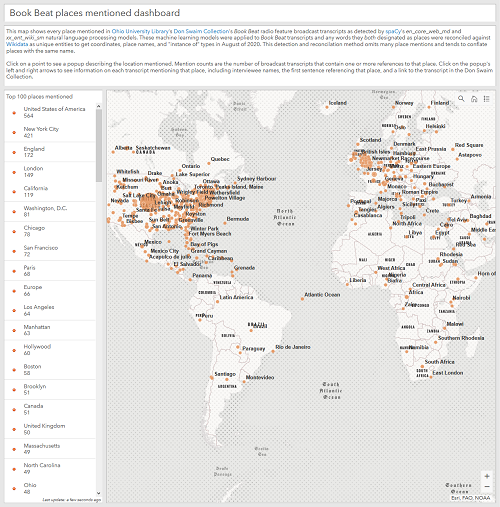
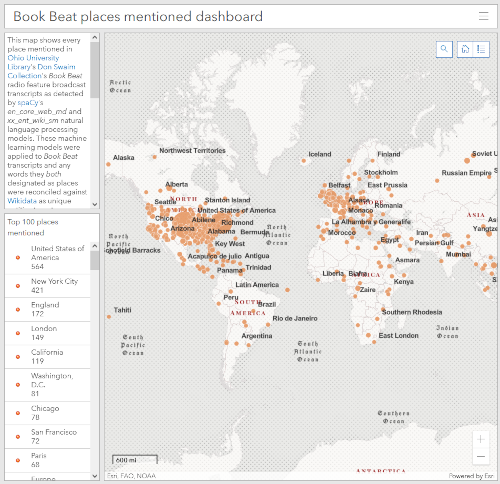
Update Swaim ArcGIS dashboard to migrated version

diff --git a/digital-exhibit-sampler/swaim-dashboard-2020/swaim-dashboard.html b/digital-exhibit-sampler/swaim-dashboard-2020/swaim-dashboard.html
@@ -164,7 +164,7 @@
                             </div>
                             <div class="card-body">
                                 <p class="card-text">See an ArcGIS Dashboard of every place mentioned in <em>Book Beat</em> as detected by spaCy's machine learning models.</p>
-                                <a href="https://arcg.is/HbaOe0">
+                                <a href="https://www.arcgis.com/apps/dashboards/bfffc97e33bc420caac2a1a7aaf24b07">
                                     <img src="assets/Book-Beat-places-mentioned-dashboard-thumbnail.png" alt="Map of place mentions"/>
                                 </a>
                             </div>
